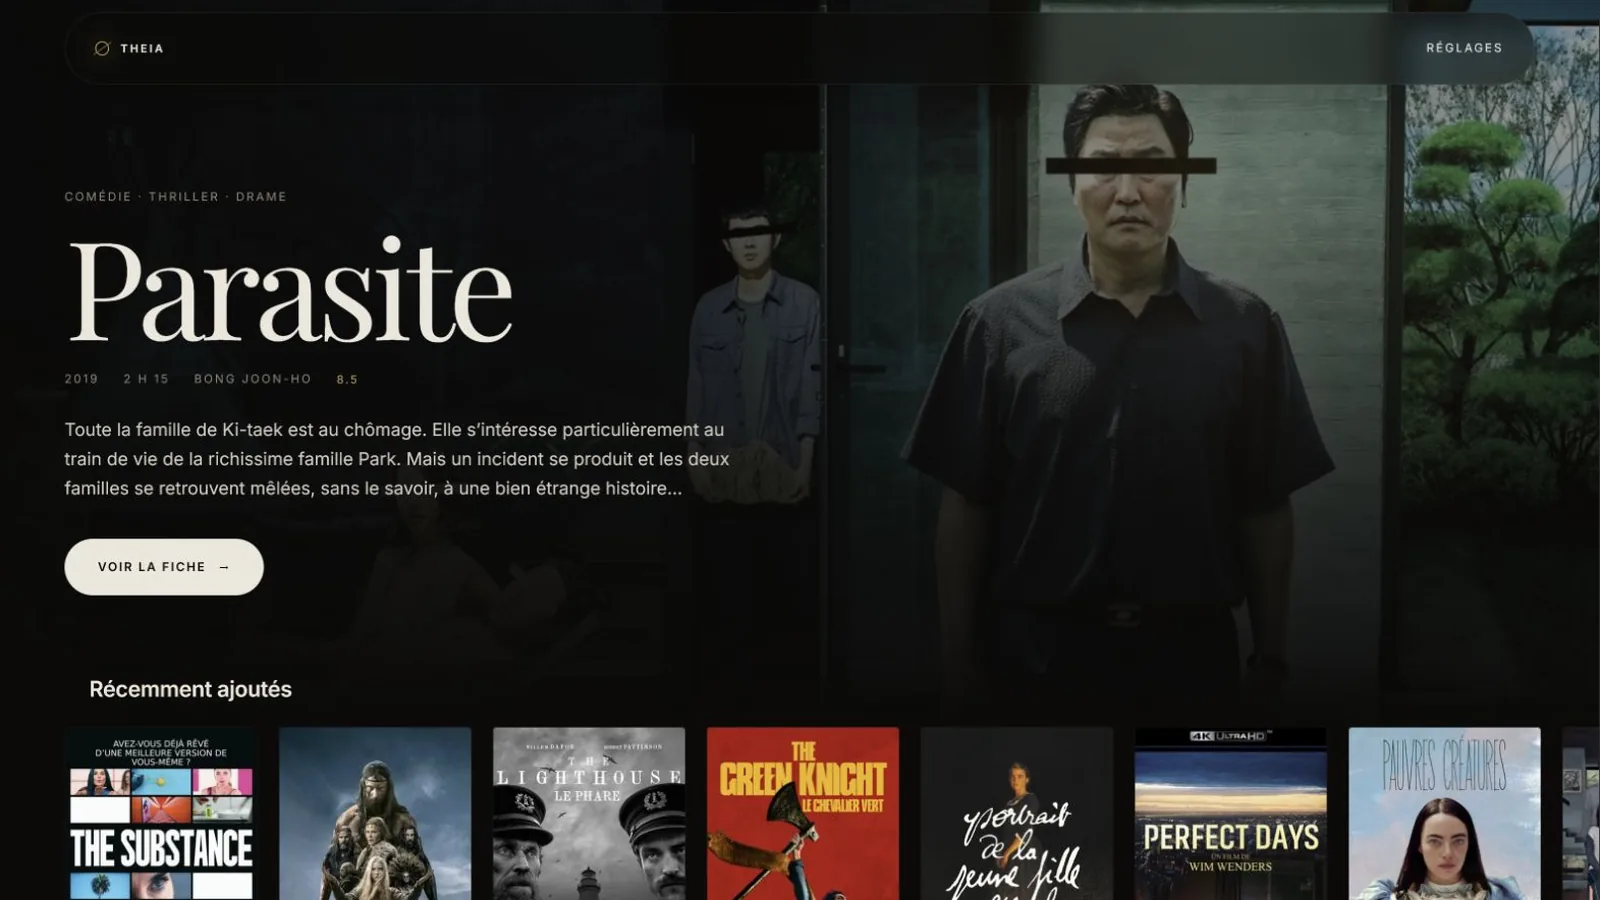
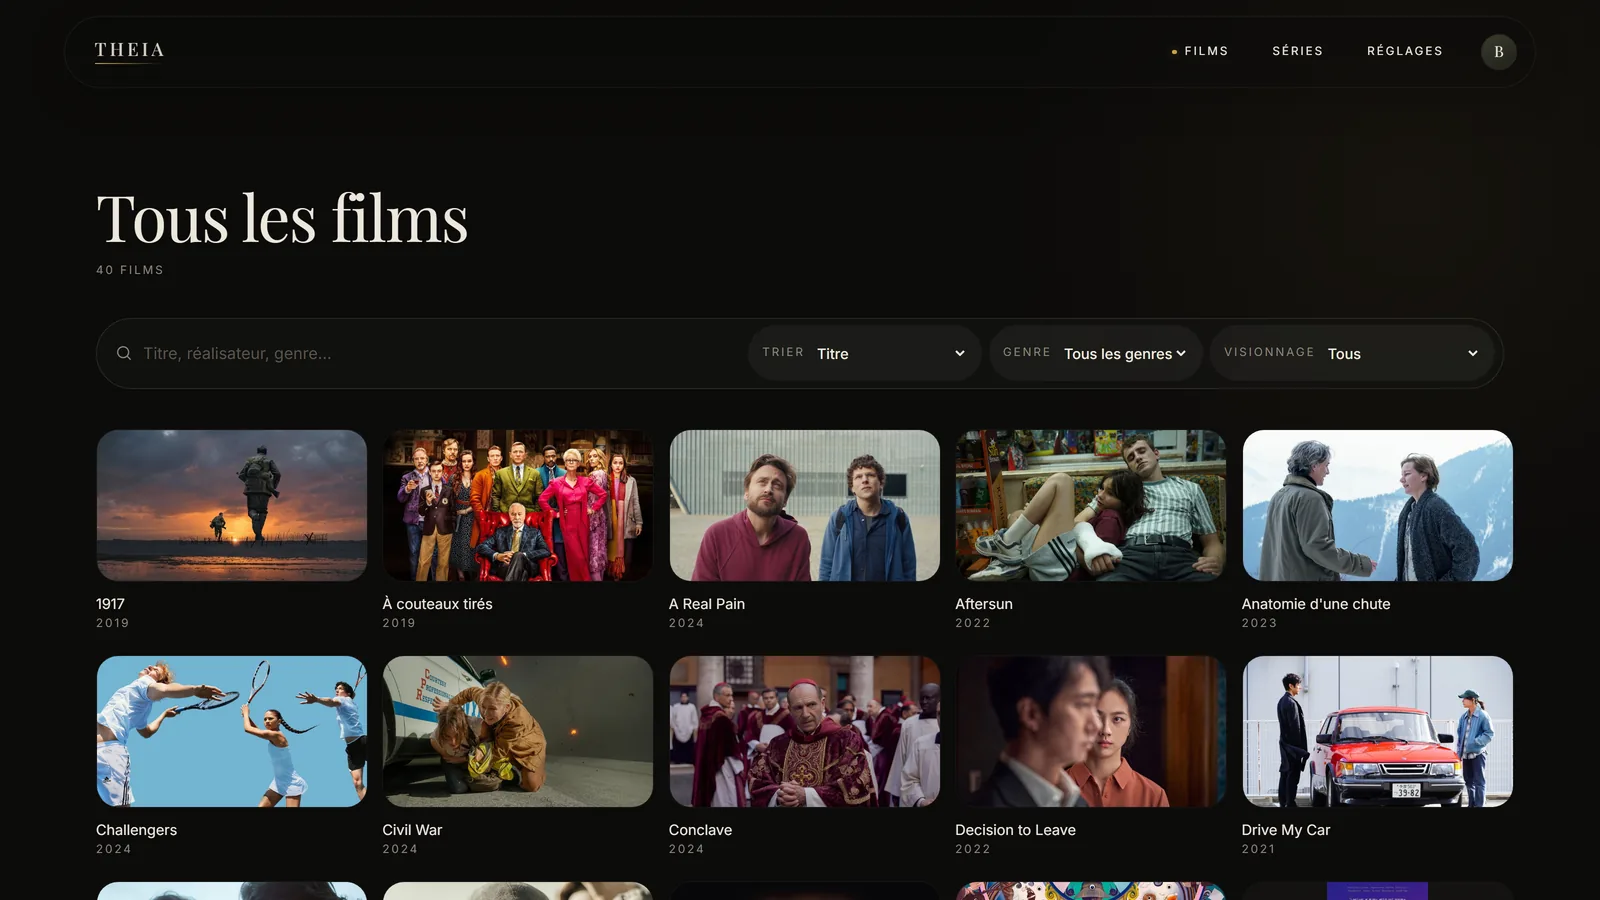
Show the interface Theia actually has
The three screenshots dated from 3 August: the 2:3 poster grid, before
the 16/9 cards, the wordmark in the navigation, profiles and series.
v2.0.0 shipped with a note above them admitting it. The note is gone.

Seven frames now: the home screen resuming a film, the film and series
libraries, a series season by season, remote access, first launch, and
the profile chooser.

Two obstacles, both recorded in decision 62 because they will recur.
chrome --headless --screenshot cannot seed localStorage, so the profile
chooser intercepted every route and every capture came back as "Qui
regarde ?" — the answer is a scripted CDP session. And a screenshot
needs a library: after the placeholder files were deleted the catalogue
held one film and seven codec fixtures with no artwork, so these are
forty films and twelve series as two-second clips cloned from one 3.5 kB
master, named the way releases are named. TMDB matched all fifty-two,
which is what puts real posters and episode stills on screen.

diff --git a/docs/DECISIONS.md b/docs/DECISIONS.md
@@ -1672,6 +1672,72 @@ could produce replacements — the preview pane does not composite frames, and t
 Chrome extension was not connected — so the release ships with a note above the
 images saying so, rather than with images that quietly misrepresent the product.
 
+## 62. The screenshots are taken by a scripted headless Chrome, against a library built for the purpose
+
+The note decision 61 left in the README is gone: **the screenshots now show the
+v2 interface.** Both obstacles turned out to be worth writing down, because the
+next person to need a screenshot will meet them again.
+
+**The one-shot route does not work here.** `chrome --headless --screenshot`
+cannot seed `localStorage`, and the profile chooser intercepts every route until
+a profile is chosen, so every capture came back as *Qui regarde ?*. What works is
+a scripted session: launch headless Chrome with `--remote-debugging-port`, drive
+it over CDP, set `theia.profile`, then navigate and capture. Two details are
+easily lost — a device scale factor of 2 downscaled to 1600px is what makes the
+type crisp, and the scroll offset must be set explicitly on *every* shot,
+including to zero, because navigating back to a URL restores the offset the tab
+had last time and silently reframes the picture.
+
+**A screenshot needs a library, and there was not one.** After the placeholder
+files were deleted, the catalogue held one real film and seven codec fixtures
+with no artwork. The library here is forty films and twelve series as two-second
+H.264 clips cloned from one 3.5 kB master, named the way releases are named, in a
+folder outside the maintainer's own. TMDB matched all fifty-two with no failures,
+which is what puts real posters, backdrops and episode stills on screen. It is a
+few hundred kilobytes, and it is *valid media* — unlike the 3 TB of unopenable
+placeholders it replaces, which is the trap decision 59 was written about.
+
+The frames avoid the panels that expose the rig — the watched folder, the data
+directory, `VERSION dev` — not to flatter the product but because a reader
+should not have to work out which parts of a screenshot are real.
+
+**This is also how the profile bug in decision 63 was found.** A screenshot of a
+feature is a test of it: the home screen refused to show the resume hero, and
+that refusal was correct.
+
+## 63. A page's onMount runs before its layout's, and the profile went out with the request
+
+Every screen that reads progress fetched it **without `?profile=`** on a cold
+load. Svelte runs a page's `onMount` before its layout's, and the layout is where
+`profiles.load()` lived, so `profiles.url()` was called while `activeID` was
+still `null`.
+
+What that looked like: the home screen offered to resume a film nobody in the
+house had started, and showed the default profile's *Continuer à regarder*.
+Worse, and silently: the player wrote its position against the wrong viewer, so
+one person's evening landed in another person's history. Navigating within the
+application fixed it, which is exactly why it survived M2 and shipped in
+`v2.0.0` — it is invisible unless the first page you land on is the one that
+matters.
+
+The fix is a shared promise. `profiles.ready()` starts the load on first ask and
+hands every later caller the same promise, so the page and the layout race to
+start the *same* request instead of two, and everything that builds a
+`?profile=` URL awaits it first. A failed load resolves rather than rejects: a
+server without profiles still serves the library, and no screen should be held
+back over the question of who is watching.
+
+Measured before and after on a cold load of `/`:
+
+| | Request | Hero |
+|---|---|---|
+| Before | `/api/library/home` | featured |
+| After | `/api/library/home?profile=2` | resume |
+
+The general lesson, which is not about Svelte: **a component that reads shared
+async state must await it, not assume somebody above it already did.** Ordering
+that happens to hold is not ordering.
+
 ## 8. Logistics
 
 - **Repository:** public, `theia-media`, from M0.

diff --git a/README.md b/README.md
@@ -38,16 +38,22 @@ are to TMDB for metadata and to GitHub Releases for its own updates.
 
 ## See it
 
-> [!NOTE]
-> These screenshots predate the v2 interface — the 16/9 cards, the wordmark in
-> the navigation, profiles and series are all newer than the images below.
-> Replacing them is tracked as an open task.
+![Theia's home screen offering to resume an unfinished film, above a row of what else is part-watched](docs/screenshots/home.webp)
 
-![Theia movie library designed for a television](docs/screenshots/library.webp)
-
-| First connection | Settings |
+| Every film | Every series |
 | --- | --- |
-| ![Theia onboarding screen with a LAN QR code](docs/screenshots/onboarding.webp) | ![Theia settings screen](docs/screenshots/settings.webp) |
+| ![The film library with search, five sorts and genre filters, in a 16/9 card grid](docs/screenshots/library.webp) | ![The series library in the same grid](docs/screenshots/series.webp) |
+
+| A series, season by season | Remote access |
+| --- | --- |
+| ![A series page listing seasons and episodes, one of them offering to resume](docs/screenshots/serie.webp) | ![The remote access panel, off until it is turned on](docs/screenshots/settings.webp) |
+
+| First launch | Who is watching |
+| --- | --- |
+| ![The first launch screen showing a LAN address and a QR code](docs/screenshots/onboarding.webp) | ![The full-screen profile chooser](docs/screenshots/profiles.webp) |
+
+Shown in French, the default. English is a complete second catalogue and switches
+without a reload. Titles, synopses and artwork come from TMDB.
 
 ## What Theia does
 
